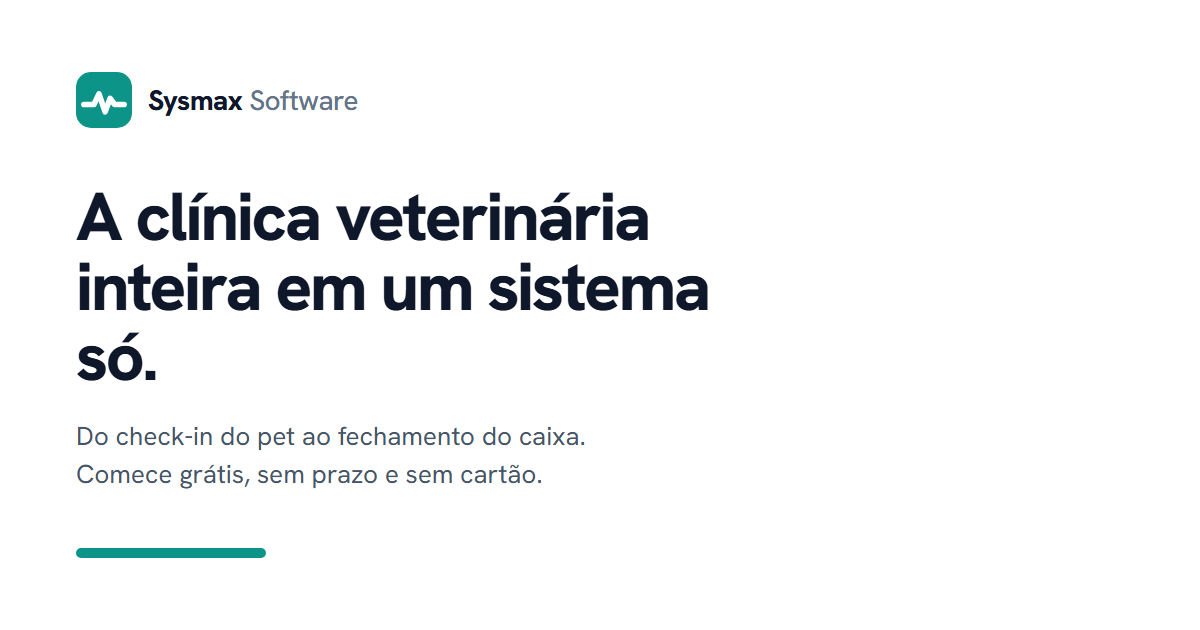
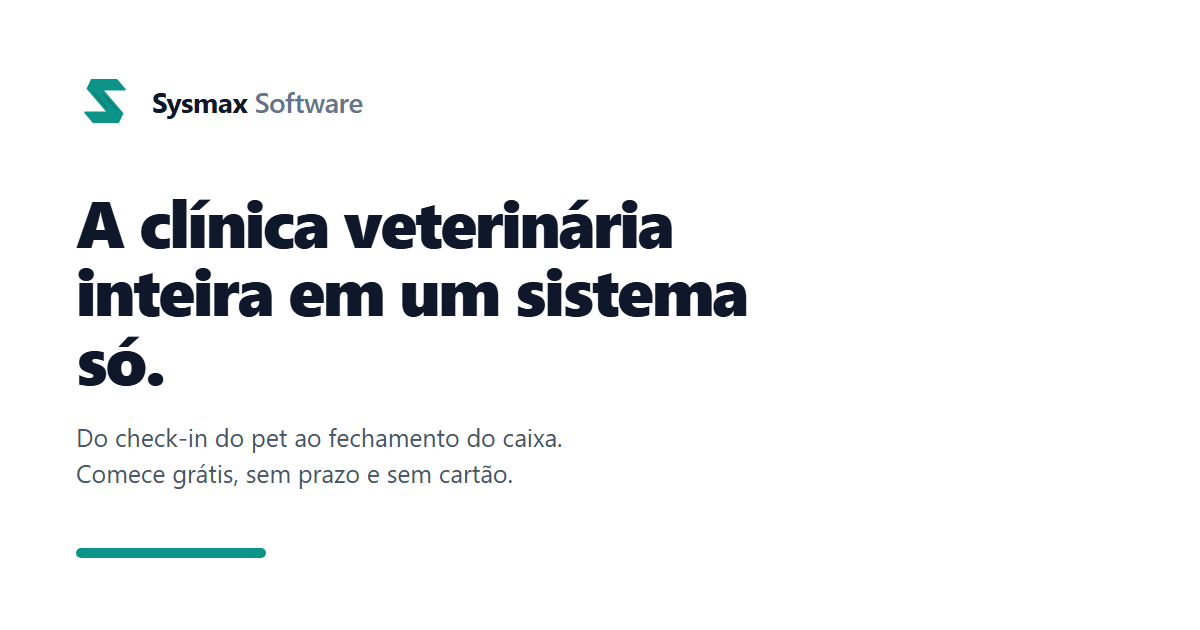
feat(marca): novo icone da Sysmax Software — monograma "S" construido em grade
O icone anterior (squircle teal + linha de ECG branca) nao passava
credibilidade: era o template generico de app icon somado ao clichê mais
batido de health-tech, sem nenhum detalhe de oficio.

Processo: um designer lider propos 4 direcoes distintas e dois criticos
independentes avaliaram — um por marca/credibilidade, outro por construcao
de icone. Os dois convergiram no monograma, com o argumento decisivo: a
Sysmax nao tem fama para sustentar uma marca muda; o simbolo precisa
carregar o NOME da empresa. E, sendo letra, serve SYSVETMAX hoje e
HealthMax/odonto depois, sem rastro de pet, cruz ou batimento.

A marca: o S em polilinha de grade, juntas em bevel (o miter geraria
espicula de 40px), simetria rotacional de 180 graus exata, um unico path
fechado sem mask — atravessa conversor de PDF, Android VectorDrawable e
gravacao a laser. Dois alivios gravados de 1,4u aparecem so a partir de
96px: recompensa quem olha de perto e some no tamanho pequeno.

- favicon/atalho: tile slate-900 com o S claro (presenca na aba)
- cabecalho: glifo teal sem alivios; rodape: glifo claro
- theme-color passa a #0F172A, acompanhando o tile
- og-image refeita com a marca nova
- regras de uso em assets/brand/MARCA.md

Claude-Session: https://claude.ai/code/session_01CWub9UroG7x9qGTPdNg143

Changed region(s): [[0.0617, 0.3016, 0.6475, 0.6333], [0.0617, 0.6635, 0.4933, 0.7841], [0.0617, 0.0905, 0.3083, 0.2111]]

diff --git a/index.html b/index.html
@@ -11,7 +11,7 @@
 <link rel="icon" href="/favicon.svg" type="image/svg+xml">
 <link rel="apple-touch-icon" href="/apple-touch-icon.png">
 <link rel="manifest" href="/site.webmanifest">
-<meta name="theme-color" content="#0D9488">
+<meta name="theme-color" content="#0F172A">
 
 <meta property="og:type" content="website">
 <meta property="og:url" content="https://sysmaxsolutions.com/">
@@ -39,7 +39,7 @@
 <header class="site-header">
   <div class="wrap site-header__in">
     <a class="brand" href="/" aria-label="Sysmax Software — início">
-      <img class="brand__mark" src="/favicon.svg" alt="" width="32" height="32">
+      <img class="brand__mark" src="/assets/brand/sysmax-mark.svg" alt="" width="32" height="32">
       <span class="brand__name">Sysmax <span class="brand__suffix">Software</span></span>
     </a>
 
@@ -496,7 +496,7 @@
     <div class="footer__grid">
       <div>
         <a class="brand" href="/" style="margin-bottom:14px">
-          <img class="brand__mark" src="/favicon.svg" alt="" width="32" height="32">
+          <img class="brand__mark" src="/assets/brand/sysmax-mark-dark.svg" alt="" width="32" height="32">
           <span class="brand__name" style="color:#fff">Sysmax <span style="color:#94A3B8;font-weight:500">Software</span></span>
         </a>
         <p class="small" style="color:#94A3B8;max-width:40ch">Construímos sistemas de gestão para quem atende na área da saúde. O SYSVETMAX, para clínicas veterinárias, é o nosso primeiro produto.</p>

diff --git a/assets/brand/MARCA.md b/assets/brand/MARCA.md
@@ -1,0 +1,97 @@
+# Marca Sysmax Software
+Criada em 04/10/2026 por um time de design (1 lider + 2 criticos independentes: marca/credibilidade e oficio de icone).
+## Direcao escolhida
+**DIREÇÃO 2 — MONOGRAMA "S" (construído em grade, juntas em bevel, terminais cortados paralelos à diagonal)**
+ADOTADA: D2 — MONOGRAMA "S", reconstruída. Os dois críticos convergiram na mesma direção (7,5 nos dois placares), então não houve empate a desempatar: houve uma fusão de camadas. Peguei a TESE do crítico de marca (monograma porque a Sysmax não tem equity para marca muda; a letra carrega o nome da empresa; neutra de setor — serve SYSVETMAX, HealthMax e odonto; uso padrão é lockup, símbolo solto só em favicon/avatar) e a CONSTRUÇÃO do crítico de ofício (escala, mask→path, compensação óptica, dois builds, title, sem width/height).
+
+O que mudou em relação à D2 original, item por item:
+1. ESCALA corrigida. Eixos das barras em y=22 e y=78, haste 20 → arestas em 12/32/68/88 (inteiros). Tinta = 72,10 × 76,00, centro exato em (50,50). Padding 12% vertical / 14% horizontal, contra 18%/23,5% antes. A 16px a haste passa de 2,72px para 3,20px.
+2. <mask> ELIMINADA. A arte agora é UM <path> fechado de 12 vértices com fill direto (~215 bytes de "d"). Resolve Android VectorDrawable, pinned-tab do Safari, conversores SVG→ICO, PDF de boleto/receituário e corte/bordado. O requisito 1 do briefing (SVG puro) agora está realmente cumprido.
+3. RASGOS (kerfs) DOS TERMINAIS REMOVIDOS, como o crítico de marca exigiu — a 180px liam como dano, e entre 24 e 48px borravam em cinza. A ideia de "peça usinada" migrou para o contorno interno: dois alívios de fresa de 1,4u paralelos à diagonal, 5u para dentro de cada flanco (verificado por point-in-polygon: os 4 extremos e os 2 pontos médios estão dentro da tinta).
+4. TERMINAIS CORTADOS EM ÂNGULO, não a 90°. As duas faces são paralelas à diagonal: dx/dy = 0,8572 contra 0,8571 da diagonal (49,40°). Isso converte "traço com ponta reta" em "peça cortada" sem acrescentar um elemento que suma a 16px. A ponta aguda de 49,4° de cada terminal recebe quebra-de-canto de 3u (rebarba de peça fresada) — 15,4px a 512px, 0,48px a 16px: aparece de perto, desaparece limpo de longe.
+5. COMPENSAÇÃO ÓPTICA DE PESO aplicada: barras horizontais com 20,0 e diagonal com 20,8 de largura PERPENDICULAR (+4%), conferido em 10,404 de meia-largura nos dois flancos. Sem isso a diagonal lê mais leve e o S engorda no meio, flertando com "5"/"2" a 24–32px.
+6. NOME CORRIGIDO: é monograma "S". Não existe x na arte e não se apresenta ao diretor uma letra que não está desenhada.
+7. BUILD EM TILE criado (svgFavicon): mesma geometria escalada 0,78 sobre tile #0F172A r=22, tinta #F0FDFA, padding óptico 20%. Raio máximo da tinta = 35,06 a partir do centro, logo sobrevive ao crop circular do WhatsApp (r=50) sem decepar terminal. Para Android adaptive icon (zona segura r=33) use a mesma arte a 0,73.
+8. <title> como primeiro filho e width/height removidos do root (travavam o escalonamento por CSS quando inline). vector-effect NÃO usado em nenhuma variante.
+
+Não adotei duas recomendações, e digo por quê: (a) o <style> com prefers-color-scheme dentro do arquivo — ele é tecnicamente correto, mas entrego svgPrincipal e svgEscuro como arquivos determinísticos, porque um favicon que muda de cor sozinho é indefensável em auditoria de marca e quebra o preview de link; quem quiser o comportamento automático troca o fill por currentColor e usa o svgMono com CSS da página (está nas regras). (b) Não escalei para 0,73 no arquivo principal do favicon: 2,50px de haste a 16px é melhor que 2,34px, e o Android adaptive é um caso derivado, não o caso principal.
+
+RESSALVAS QUE PRECISAM IR AO DIRETOR JUNTO COM O ARQUIVO (os dois críticos insistiram, e eles estão certos):
+- ANTERIORIDADE ANTES DE IMPRIMIR. Monograma S é a categoria de maior colisão que existe. Rodar INPI classes 9 e 42 + busca reversa de imagem antes de qualquer material impresso ou app publicado. Custo de pular: rebrand forçado depois.
+- MARCA DA EMPRESA ≠ MARCA DO PRODUTO. Este S é da Sysmax Software (holding). NÃO sobrescrever C:\Sysmaxsolutions_site\assets\brand\sysvetmax-mark.svg sem decisão explícita dele. Alvos legítimos: favicon.svg, site.webmanifest, index.html (cabeçalho e rodapé).
+- O ÍCONE É ~20% DO PROBLEMA. "Não passa credibilidade alguma" só fecha com: CNPJ + razão social + endereço no rodapé, página de Segurança/LGPD, "quem somos" com pessoas reais, e 2 clientes nomeados com depoimento (Almavet, Animais). Se trocarmos só o SVG, ele volta com a mesma frase em um mês.
+- VALIDAR NOS TRÊS CONTEXTOS REAIS antes de fechar: aba do navegador ao lado de VetSmart/SimplesVet/Vetus, foto de perfil do WhatsApp comercial (crop circular) e cabeçalho de boleto/receituário em preto 100%.
+## Por que passa credibilidade
+Esta marca passa credibilidade porque ela diz o NOME DA EMPRESA: é o S de Sysmax construído em grade, não um símbolo abstrato que exige fama prévia para ser entendido — e quem está pesquisando se a Sysmax existe de verdade precisa ler o nome, não decifrar um enigma. Ela é verificavelmente construída, não desenhada a olho: simetria rotacional de 180° exata, um único path fechado sem auto-interseção, barras de 20 unidades contra diagonal de 20,8 perpendicular para compensar o peso óptico, terminais cortados no mesmo plano de 49,40° da diagonal com quebra-de-canto de 3 unidades — é o vocabulário de uma peça usinada, que é exatamente o que uma empresa de engenharia de software deveria assinar. Ela resiste aos quatro testes que realmente decidem: a 16px continua sendo uma letra e não uma mancha (haste de 3,2px, contraformas de 41 unidades), funciona em preto 100% no carimbo e no cabeçalho de receituário, não muda de identidade entre o fundo claro e o rodapé escuro, e não tem leitura acidental dominante — nem pata, nem coração, nem cruz, nem eletrocardiograma. E ela é neutra de setor por construção: serve o SYSVETMAX hoje, o HealthMax amanhã e a odontologia depois, sem readaptação — enquanto o ícone antigo, com a linha de ECG, prendia a empresa ao nicho saúde e repetia o clichê mais batido do mercado, que é justamente o motivo de ele não passar credibilidade nenhuma.
+## Arquivos
+| arquivo | uso |
+|---|---|
+| `favicon.svg` | tile (fundo slate-900 + S claro) — aba, atalho de celular, avatar |
+| `assets/brand/sysmax-mark.svg` | glifo teal sem alivios — cabecalho do site (16-48px) |
+| `assets/brand/sysmax-mark-dark.svg` | glifo claro — rodape e fundos escuros |
+| `assets/brand/sysmax-mark-mono.svg` | `currentColor`, 1 path fechado — carimbo, boleto, receituario, gravacao |
+| `assets/brand/sysmax-mark-detalhada.svg` | com os dois alivios de 1,4u — so a partir de 96px |
+| `assets/brand/sysmax-mark-detalhada-dark.svg` | idem, para fundo escuro |
+| `icon-512.png` `icon-192.png` `apple-touch-icon.png` `favicon.ico` | rasterizados do tile |
+
+## Lockup
+LOCKUP HORIZONTAL — uso padrão da marca. O símbolo solto NUNCA aparece no hero do site; só em favicon, app icon e avatar.
+
+UNIDADE DE MEDIDA: C = altura de caixa-alta (cap height) do texto. Em Hanken Grotesk, cap height = 0,72 em, então font-size = C / 0,72 = 1,389 C (conferir na versão do arquivo da fonte antes de fechar).
+
+1) TAMANHO DO SÍMBOLO
+- Caixa do símbolo (o viewBox 0 0 100 100) = S = 2,105 C.
+- Daí a tinta do glifo tem 0,76 S = 1,600 C de altura — exatamente a razão pedida (glifo = 1,6 × cap height) — e 0,721 S = 1,518 C de largura.
+- Exemplo verificável a font-size 32px: C = 23,0px → S = 48px → tinta do símbolo = 36,5px de altura × 34,6px de largura.
+
+2) ESPAÇO ENTRE SÍMBOLO E TEXTO
+- Gap = 0,50 × largura da tinta do glifo = 0,759 C (arredondar para 0,76 C).
+- Medido de TINTA A TINTA: da aresta direita da tinta do símbolo (x = 86,05 no viewBox) até a aresta esquerda da tinta do "S" de Sysmax — ignorar o sidebearing da fonte e as margens vazias do viewBox, senão o gap infla ~14%.
+- Exemplo a font-size 32px (C = 23,0px): gap = 17,5px → usar 17px.
+
+3) ALINHAMENTO VERTICAL (é matemático, não ajustado à mão)
+- O S tem simetria rotacional de 180° exata em torno de (50,50) — conferido por script: os 12 vértices se mapeiam em pares que somam 100 em x e em y. Logo o centro óptico = centro geométrico.
+- Regra: centrar a caixa de tinta do símbolo (altura 1,600 C) na linha média da faixa de caixa-alta, isto é em y = baseline − C/2. Zero nudge manual, zero "ajuste a olho".
+- Exemplo a font-size 32px: baseline do texto a 42,25px do topo da tinta do símbolo.
+
+4) TIPOGRAFIA DO NOME
+- "Sysmax" — Hanken Grotesk 600, tracking −0,01 em, cor #0F172A (fundo escuro: #F8FAFC).
+- "Software" — Hanken Grotesk 400, MESMO font-size, tracking 0, cor #475569 (fundo escuro: #94A3B8).
+- Espaço entre as duas palavras = 0,30 C (não usar o espaço padrão da fonte, que é ~0,26 em e fica largo demais nesse peso).
+- Nunca caixa-alta total, nunca itálico, nunca outra família.
+- Variante compacta para espaços apertados (favicon bar, assinatura de e-mail, rodapé de documento): símbolo + "sysmax" sozinho, 600, caixa-baixa, mesmos números de gap e alinhamento.
+
+5) ALTURA TOTAL E CLEARSPACE
+- A altura do lockup é governada pelo símbolo: 1,600 C (a tinta) — o texto, com ascendentes e descendentes, cabe dentro disso.
+- Área de proteção = 0,40 S em todos os quatro lados (equivale a uma contraforma do S: a boca do contra-vão mede ~41 unidades do viewBox). A font-size 32px → 19px de respiro livre em volta.
+
+6) VERSÃO MONOCROMÁTICA DO LOCKUP
+- Símbolo em currentColor (svgMono), "Sysmax" em currentColor 100%, "Software" em currentColor a 65% de opacidade. Em preto 100% para carimbo/boleto/receituário: tudo chapado, "Software" a 65% vira cinza de impressão — se a saída for 1-bit (carimbo de borracha), usar "Sysmax Software" inteiro em 100% e peso 600 nas duas palavras.
+
+7) MÍNIMOS DO LOCKUP
+- Mínimo: C = 11px (font-size 15px, caixa do símbolo 23px, largura total ≈ 96px). Abaixo disso o lockup se quebra: usar o tile (svgFavicon).
+
+8) HTML/CSS DE REFERÊNCIA (proporções já embutidas)
+.lockup{display:inline-flex;align-items:center;gap:0.76em;font-family:"Hanken Grotesk",system-ui,sans-serif;font-size:23px /* = C */;line-height:1}
+.lockup svg{height:1.6em;width:auto;display:block;flex:none;margin-right:-0.1em /* compensa a margem vazia do viewBox à direita: 13,95/76 = 0,18em; ajustar ao gap de tinta */}
+.lockup b{font-weight:600;letter-spacing:-0.01em;font-size:1.389em;color:#0F172A}
+.lockup span{font-weight:400;font-size:1.389em;color:#475569;margin-left:0.30em}
+Observação: como o viewBox tem 13,95 unidades de vazio à esquerda e 13,95 à direita da tinta, o gap CSS precisa ser corrigido pela margem negativa acima (ou use um SVG recortado no bbox da tinta para o lockup). O gap FINAL é sempre medido de tinta a tinta: 0,76 C.
+
+## Regras de uso
+- TAMANHO MÍNIMO — símbolo solto (sem tile): 20px. Abaixo disso a haste cai de 4,0px e o monograma começa a fechar as contraformas. Tile (svgFavicon): 16px, onde a haste rende 2,50px. Lockup: cap height mínima de 11px (font-size 15px, largura total ~96px).
+- DOIS BUILDS, NÃO UM. Use svgPrincipal/svgEscuro (com os dois alívios de 1,4u) somente a partir de 96px. De 16 a 48px use o svgFavicon ou o svgMono sem alívio: 1,4u rende 0,22px a 16px e 0,67px a 48px — nessa faixa o alívio não some limpo, ele borra em cinza. Isso é prática normal de marca (Apple, IBM), não remendo.
+- ÁREA DE PROTEÇÃO = 0,40 × a altura da caixa do símbolo, nos quatro lados (equivale a uma contraforma do S). Nada entra aí: nem texto, nem ícone de rede social, nem borda de card, nem o selo de 'cliente desde'.
+- FUNDO ESCURO (#0F172A): use svgEscuro (tinta #F0FDFA, alívio #2DD4BF). NÃO use o teal #0D9488 em cima do slate-900: ele passa em contraste (~4,8:1) mas tem presença fraca, e no rodapé a marca precisa pesar. Em fundo claro (#FFFFFF, #F8FAFC, #F0FDFA) use svgPrincipal.
+- FAVICON / ATALHO DE CELULAR / AVATAR DE WHATSAPP: sempre o tile (svgFavicon), nunca o glifo vazado. O glifo sem contêiner perde presença na aba ao lado de concorrentes com tile cheio. O tile já foi testado para crop circular: raio máximo da tinta = 35,06 do centro, dentro do círculo inscrito (r=50), nenhum terminal é decepado.
+- ANDROID ADAPTIVE ICON: a zona segura é r=33 do centro e a tinta do tile está em 35,06. Gere uma variante dedicada escalando a arte do glifo por 0,73 em torno de (50,50) — haste 14,6u, 2,34px a 16px, ainda legível. Não tente resolver com o arquivo padrão.
+- CARIMBO, BOLETO, RECEITUÁRIO, FAX, BORDADO, GRAVAÇÃO A LASER: use svgMono. Ele é 1 path fechado, sem mask, sem gradiente, sem opacidade — é o único arquivo que atravessa conversor de PDF, SVG→ICO e máquina de corte sem perder nada. Defina a cor pelo CSS/atributo color do contexto, ou substitua currentColor por #000000 na hora de gerar o arquivo de produção.
+- NUNCA use currentColor em favicon nem dentro de <img>: ali o SVG é documento próprio e currentColor cai no color do elemento raiz, que não existe. Para esses dois casos use svgPrincipal/svgEscuro/svgFavicon, que têm cor literal.
+- NUNCA acrescente vector-effect="non-scaling-stroke" a nenhuma variante. Ele fixa a espessura em unidades de dispositivo e destruiria a marca a 512px (a haste de 20 ficaria com a mesma grossura em px de 16px e de 512px).
+- NUNCA recoloque width/height no root dos SVGs. Eles travam o escalonamento por CSS quando o SVG é inline. O viewBox é o que define a proporção, e ele é 1:1 — o símbolo é sempre quadrado em caixa, mesmo com tinta de 72,10 × 76,00.
+- NUNCA redesenhe, reconstrua ou 'melhore' o path. Toda credibilidade desta marca está em três fatos verificáveis por script: simetria rotacional de 180° exata (os 12 vértices somam 100 aos pares), polígono simples sem auto-interseção, e barras de 20,0 contra diagonal de 20,8 perpendicular (+4% de compensação óptica). Qualquer reconstrução a olho quebra os três.
+- NUNCA aplique sombra, brilho, bisel, gradiente decorativo, contorno, rotação, espelhamento, deformação de proporção, nem outline em volta do glifo. Nunca mude as cores: só #0D9488 (claro), #F0FDFA (escuro) e currentColor (mono) são aprovados.
+- NUNCA coloque o símbolo solto no hero do site, em cartão de visita ou em slide de abertura. O uso padrão é o LOCKUP (símbolo + 'Sysmax Software'). A empresa não tem reconhecimento para usar marca muda — símbolo sozinho só em favicon, app icon e avatar, onde o nome aparece ao lado por conta da plataforma.
+- NUNCA use esta marca como marca do produto. Este S é da Sysmax Software (holding). SYSVETMAX, HealthMax e o futuro módulo de odontologia têm marcas próprias e não devem ser substituídos por este arquivo. Não sobrescrever assets/brand/sysvetmax-mark.svg.
+- NUNCA imprima nem publique em app store antes da busca de anterioridade: INPI classes 9 e 42 + busca reversa de imagem. Monograma S é a categoria de maior colisão de marca que existe.
+- PACOTE DE ENTREGA obrigatório para não degradar em três semanas nas mãos de quem monta slide e post: PNG 16/32/48/180/192/512 do tile, SVG otimizado das 4 variantes, lockup em SVG claro/escuro/mono, e uma página de uso de 1 tela com estes números. Sem isso, o ativo apodrece.
